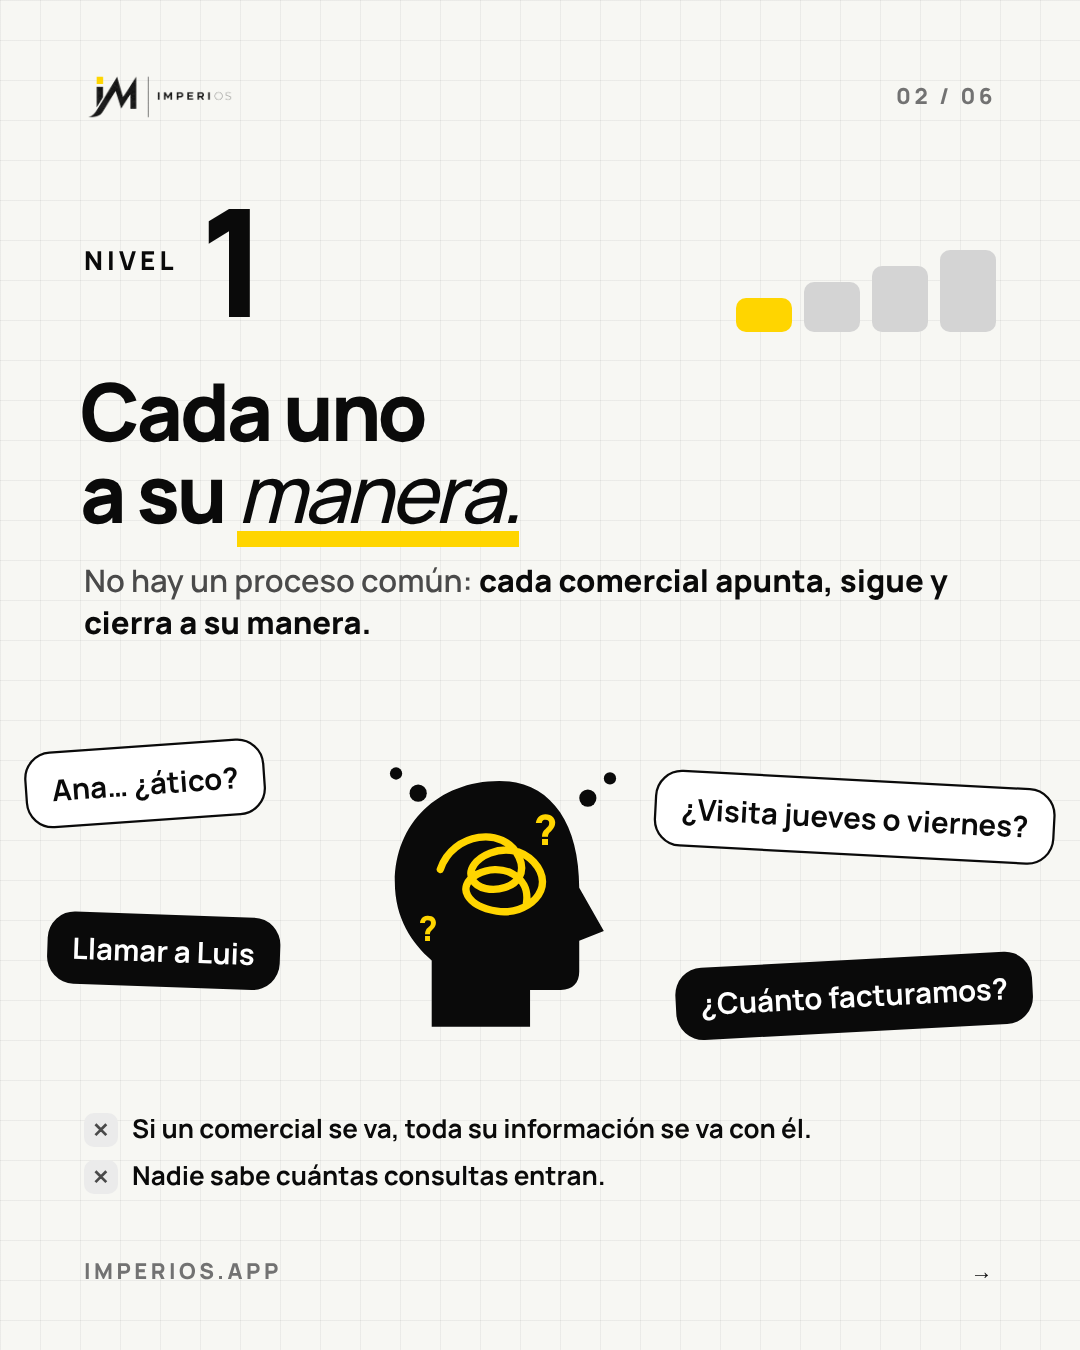
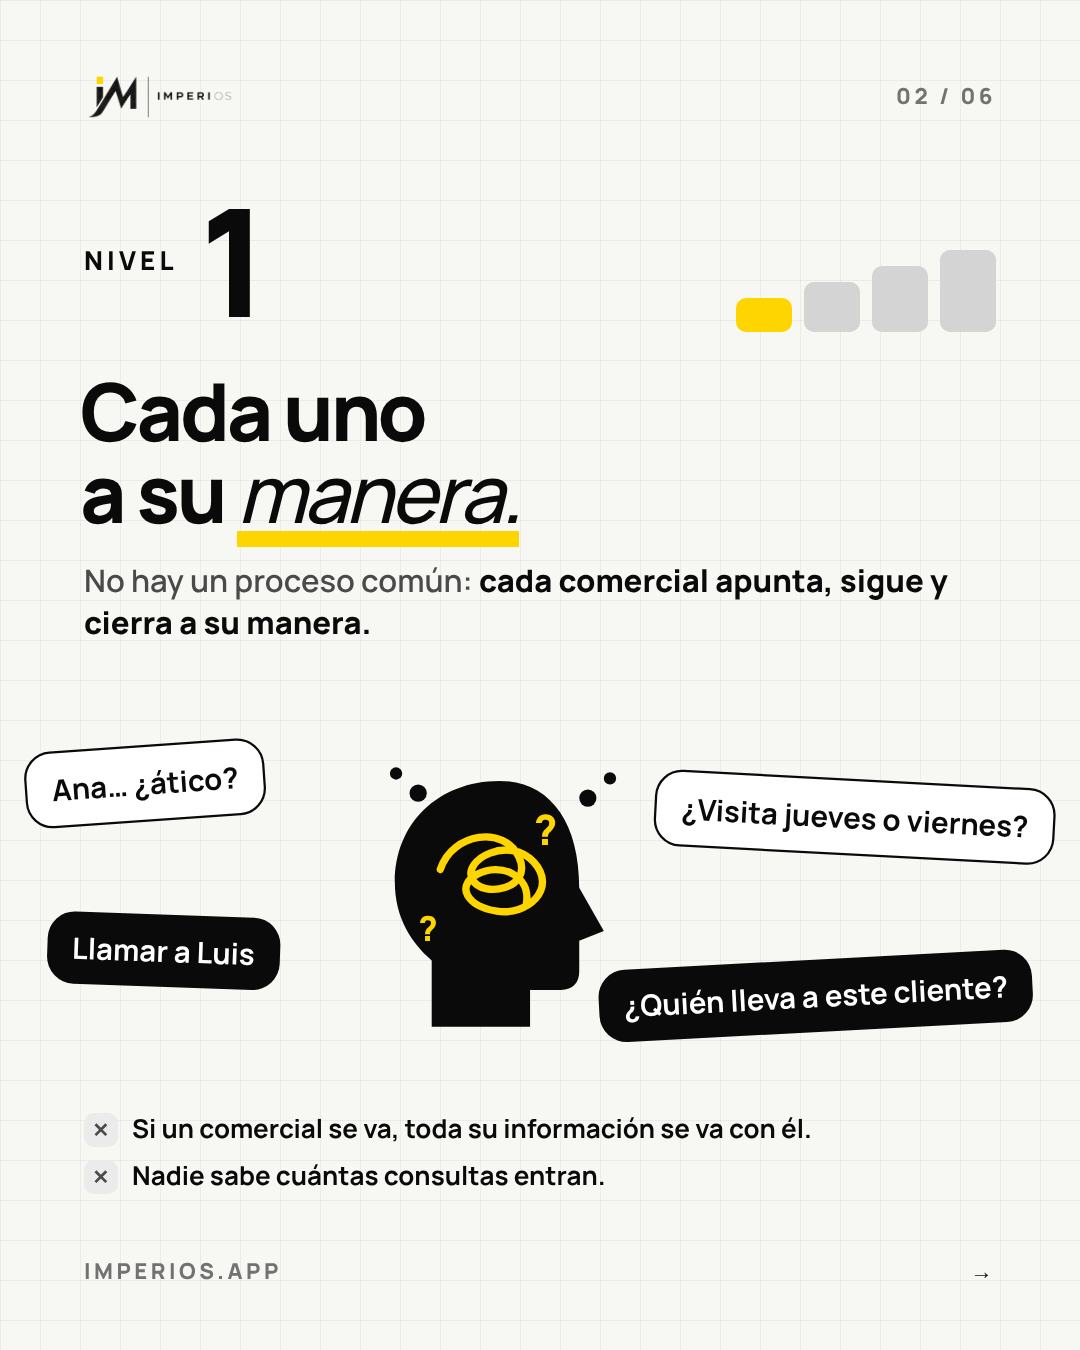
Carrusel niveles: «¿Quién lleva a este cliente?» en el nivel 1
Claude-Session: https://claude.ai/code/session_01GUwAx98LwDLChJJ4cX9B1a

Changed region(s): [[0.55, 0.7156, 0.9472, 0.7778]]

diff --git a/ADV/ImperiOS Ad/preview/src/carrusel-niveles.html b/ADV/ImperiOS Ad/preview/src/carrusel-niveles.html
@@ -98,7 +98,7 @@ body.dark .nv b { color: var(--y); }
     <div class="bub" style="left:0;top:0;background:#fff;border:2px solid var(--ink-950);transform:rotate(-4deg)">Ana… ¿ático?</div>
     <div class="bub" style="right:0;top:30px;background:#fff;border:2px solid var(--ink-950);transform:rotate(3deg)">¿Visita jueves o viernes?</div>
     <div class="bub" style="left:20px;top:150px;background:var(--ink-950);color:#fff;transform:rotate(2deg)">Llamar a Luis</div>
-    <div class="bub" style="right:20px;top:190px;background:var(--ink-950);color:#fff;transform:rotate(-3deg)">¿Cuánto facturamos?</div>
+    <div class="bub" style="right:20px;top:190px;background:var(--ink-950);color:#fff;transform:rotate(-3deg)">¿Quién lleva a este cliente?</div>
   </div>
   <div class="abs sig" style="top:1112px"><div class="no"><i>✕</i>Si un comercial se va, toda su información se va con él.</div><div class="no"><i>✕</i>Nadie sabe cuántas consultas entran.</div></div>
   <div class="abs foot"><span>IMPERIOS.APP</span><b>→</b></div>
